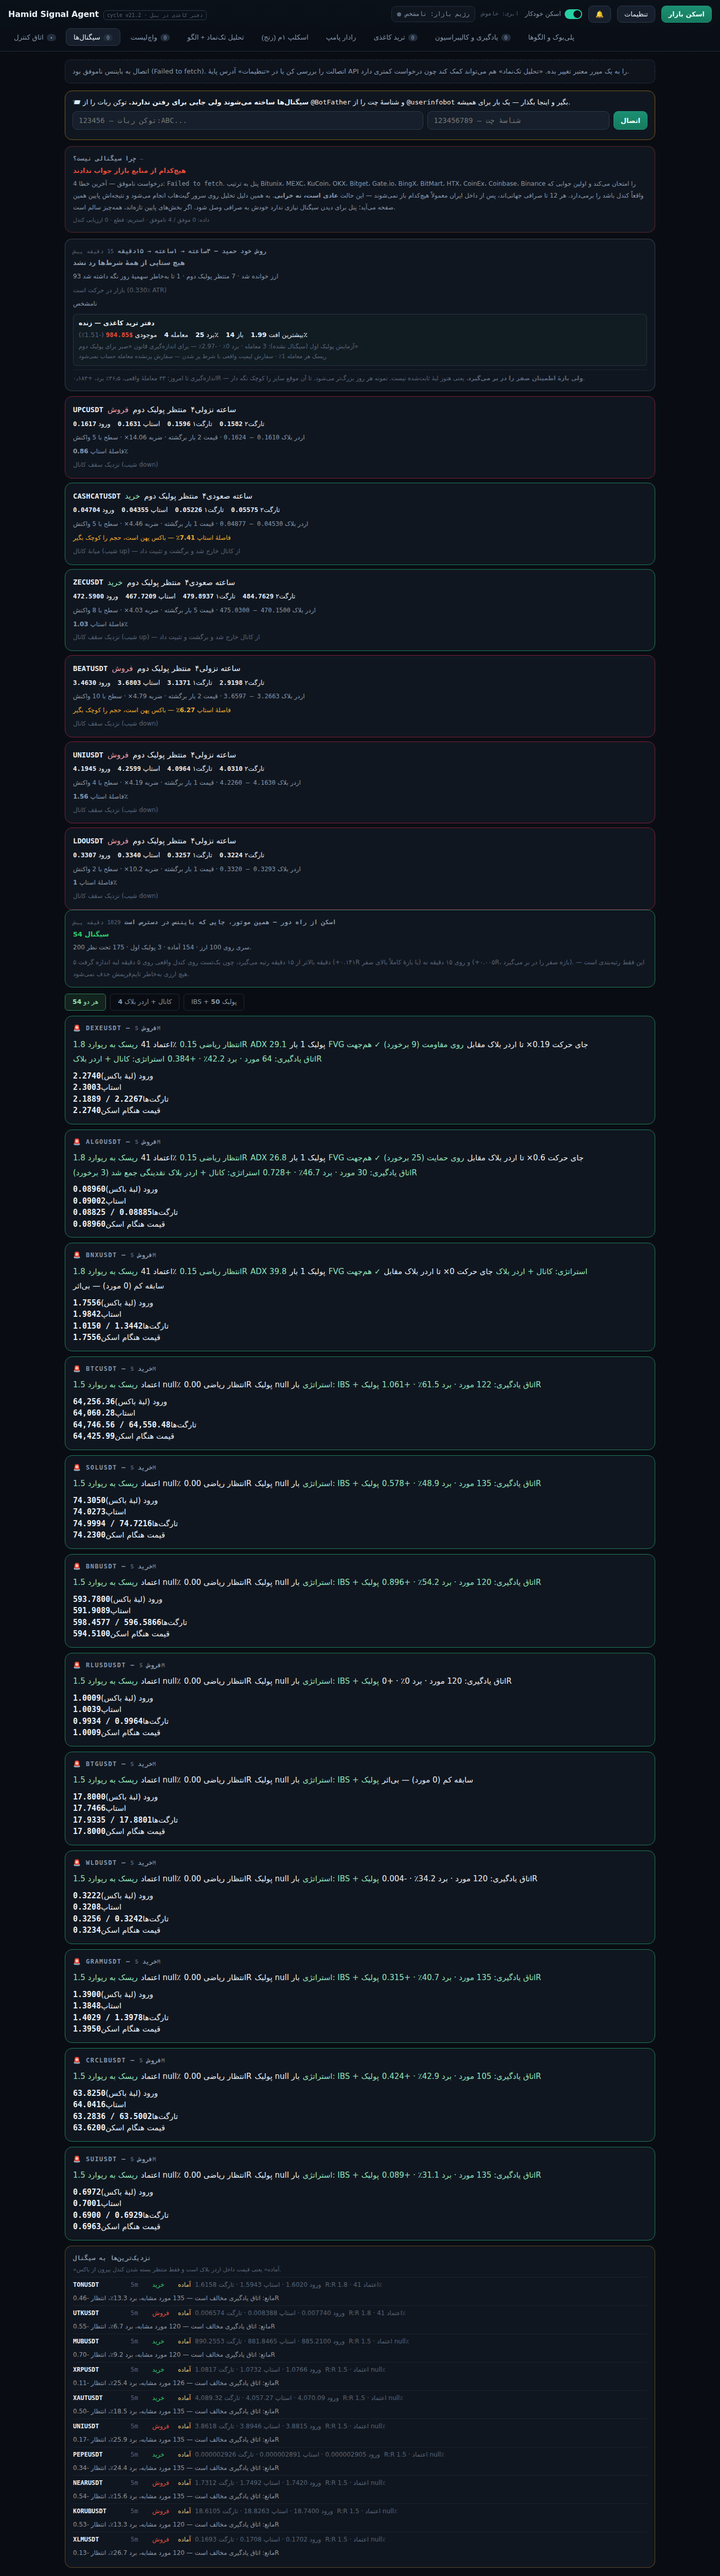
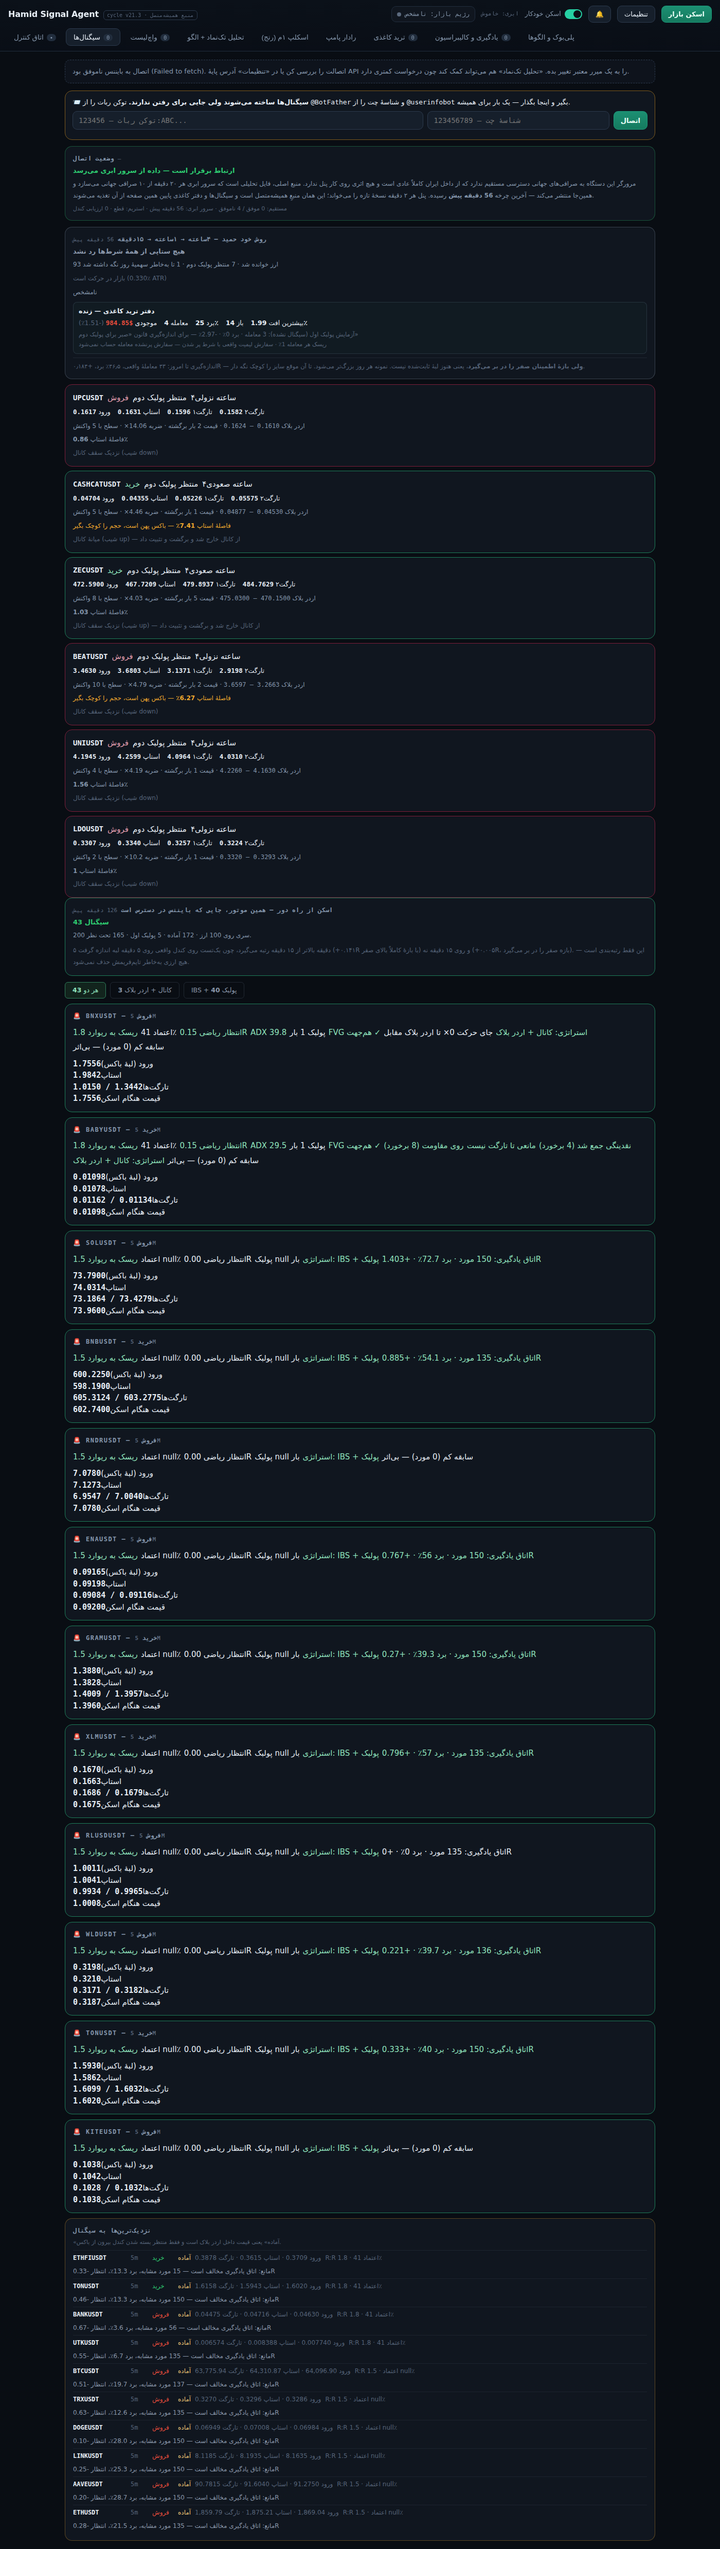
پنل دیگر با قطع بودن مرورگر آلارم قرمز نمیدهد؛ ملاک سلامت، تازگی فایل سرور است
جعبهٔ «چرا سیگنالی نیست؟» با هر شکست فچ مرورگر قرمز میشد و مینوشت
«هیچکدام از منابع بازار جواب ندادند» — که از داخل ایران همیشه است و
هیچ ربطی به سلامت پنل ندارد. حالا:

- مرورگرِ کور + فایل سرور تازه (<۹۰ دقیقه) → سبز: «ارتباط برقرار است —
  داده از سرور ابری میرسد» با سن آخرین چرخه
- مرورگرِ کور + فایل سرور کهنه یا غایب → قرمز با تشخیص درست:
  «چرخهٔ سرور عقب افتاده» و راهحل (اجرای دستی Heartbeat)
- خط وضعیت پایین جعبه سن فایل سرور را هم نشان میدهد

هر دو شاخه با Playwright تست شد (tests/diagnosis.mjs + تست دستی شاخهٔ
قرمز). v21.3، کش سرویسورکر هم bump شد.

Claude-Session: https://claude.ai/code/session_01Hmz5ep1FQiSRdvnpYTDsuE

diff --git a/index.html b/index.html
@@ -217,7 +217,7 @@ input.f{background:var(--panel2);border:1px solid var(--line2);border-radius:9px
 <body dir="ltr">
 <header>
   <div class="bar">
-    <div class="brand"><b>Hamid Signal Agent</b><span class="v" id="ver">cycle v21.2 · دفتر کاغذی در پنل</span></div>
+    <div class="brand"><b>Hamid Signal Agent</b><span class="v" id="ver">cycle v21.3 · منبع همیشهمتصل</span></div>
     <div class="regime" id="regime"><span class="dot"></span><span id="regimeTxt">رژیم بازار: نامشخص</span></div>
     <span class="mono" id="syncPill" style="font-size:11px;color:var(--dim)">ابری: خاموش</span>
     <label class="switch" id="autoSw"><span>اسکن خودکار</span><i></i></label>
@@ -3642,20 +3642,34 @@ function renderWhy(){
 setInterval(renderWhy,5000);
 function diagHTML(){
   const n=DIAG.net,age=n.lastOk?Math.round((Date.now()-n.lastOk)/1000):null;
-  const dataDown=(!n.lastOk&&n.fail>0)||(age!=null&&age>420);
+  /* «قطع بودن» فقط یعنی مرورگرِ همین دستگاه به صرافیها نمیرسد. منبع اصلی پنل
+     فایلهای منتشرشده از سرور است — تا وقتی آنها تازهاند، هیچچیز خراب نیست. */
+  const blind=(!n.lastOk&&n.fail>0)||(age!=null&&age>420);
+  const cloudAt=Math.max((HAMID.data&&HAMID.data.generated)||0,(RELAY.data&&RELAY.data.generated)||0);
+  const cloudMin=cloudAt?Math.round((Date.now()-cloudAt)/60000):null;
+  const cloudFresh=cloudMin!=null&&cloudMin<=90;
+  const dataDown=blind&&!cloudFresh&&(HAMID.tried>0||RELAY.tried>0);
   const st=DIAG.stages,tot=Object.values(st).reduce((a,b)=>a+b,0);
   const gates=Object.entries(DIAG.gates).sort((a,b)=>b[1]-a[1]).slice(0,5);
   let verdict,detail,tone;
-  if(dataDown){
+  if(blind&&cloudFresh){
+    tone="#2ecc71";
+    verdict="ارتباط برقرار است — داده از سرور ابری میرسد";
+    detail=`مرورگر این دستگاه به صرافیهای جهانی دسترسی مستقیم ندارد که از داخل
+      ایران کاملاً عادی است و هیچ اثری روی کار پنل ندارد. منبع اصلی، فایل تحلیلی
+      است که سرور ابری هر ۲۰ دقیقه از ۱۰ صرافی جهانی میسازد و همینجا منتشر
+      میکند — آخرین چرخه <b>${cloudMin} دقیقه پیش</b> رسیده. پنل هر ۲ دقیقه
+      نسخهٔ تازه را میخواند؛ این همان منبعِ همیشهمتصل است و سیگنالها و دفتر
+      کاغذی پایین همین صفحه از آن تغذیه میشوند.`;
+  }else if(dataDown){
     tone="#e74c3c";
-    verdict="هیچکدام از منابع بازار جواب ندادند";
-    detail=`${n.fail} درخواست ناموفق${n.lastErr?` — آخرین خطا: <span class="mono">${n.lastErr}</span>`:""}.
-      پنل به ترتیب ${SOURCES.map(x=>x.label).join("، ")} را امتحان میکند و
-      اولین جوابی که واقعاً کندل باشد را برمیدارد. هر ${SOURCES.length} تا صرافی
-      جهانیاند، پس از داخل ایران معمولاً هیچکدام باز نمیشوند — این حالت
-      <b>عادی است، نه خرابی</b>. به همین دلیل تحلیل روی سرور گیتهاب انجام میشود
-      و نتیجهاش پایین همین صفحه میآید؛ پنل برای دیدن سیگنال نیازی ندارد خودش به
-      صرافی وصل شود. اگر بخشهای پایین تازهاند، همهچیز سالم است.`;
+    verdict="چرخهٔ سرور عقب افتاده — داده تازه نمیرسد";
+    detail=`${cloudMin!=null?`آخرین فایل سرور ${cloudMin} دقیقه پیش ساخته شده (آستانه ۹۰ دقیقه)`:
+      "هنوز هیچ فایلی از سرور نرسیده"}${HAMID.err?` — <span class="mono">${HAMID.err}</span>`:""}
+      و مرورگر هم دسترسی مستقیم به صرافی ندارد، پس فعلاً هیچ دادهٔ تازهای در کار
+      نیست. معمولاً یعنی ورکفلوی Heartbeat در گیتهاب خوابیده — برگهٔ Actions
+      مخزن را باز کن و Heartbeat را دستی اجرا کن؛ دیدهبان هم اگر تلگرام وصل
+      باشد همین را هشدار میدهد.`;
   }else if(!tot){
     tone="#f0a92e";
     verdict="هنوز اسکنی کامل نشده";
@@ -3675,11 +3689,12 @@ function diagHTML(){
     detail=parts.join(" · ")+(gates.length?`<div style="margin-top:6px">بیشترین مانع: ${gates.map(([g,c])=>`${g} (${c})`).join(" · ")}</div>`:"");
   }
   return `<div class="box" style="margin-bottom:12px;border-color:${tone}55">
-    <h3 style="margin:0 0 4px">چرا سیگنالی نیست؟ <span class="dim" style="font-size:11px;font-weight:400">${DIAG.at?fmtTime(new Date(DIAG.at)):"—"}</span></h3>
+    <h3 style="margin:0 0 4px">${blind&&cloudFresh?"وضعیت اتصال":"چرا سیگنالی نیست؟"} <span class="dim" style="font-size:11px;font-weight:400">${DIAG.at?fmtTime(new Date(DIAG.at)):"—"}</span></h3>
     <div style="font-size:13px;color:${tone};font-weight:700">${verdict}</div>
     <div class="muted" style="font-size:12px;margin-top:5px;line-height:1.9">${detail}</div>
     <div class="dim" style="font-size:11px;margin-top:6px">
-      داده: ${n.ok} موفق / ${n.fail} ناموفق${age!=null?` · آخرین دریافت ${age}s پیش`:""} ·
+      مستقیم: ${n.ok} موفق / ${n.fail} ناموفق${age!=null?` · آخرین دریافت ${age}s پیش`:""} ·
+      سرور ابری: ${cloudMin!=null?`${cloudMin} دقیقه پیش`:"هنوز نرسیده"} ·
       استریم: ${WATCHER.ws?"متصل":"قطع"} · ${WATCHER.evals} ارزیابی کندل
     </div></div>`;
 }

diff --git a/sw.js b/sw.js
@@ -1,7 +1,7 @@
 /* Hamid Signal Agent — service worker
    Caches the app shell so the panel opens instantly (even offline),
    while always going to the network for live market data and the cloud API. */
-const CACHE = "hsa-shell-v21.2";
+const CACHE = "hsa-shell-v21.3";
 const ASSETS = [
   "./",
   "./index.html",
